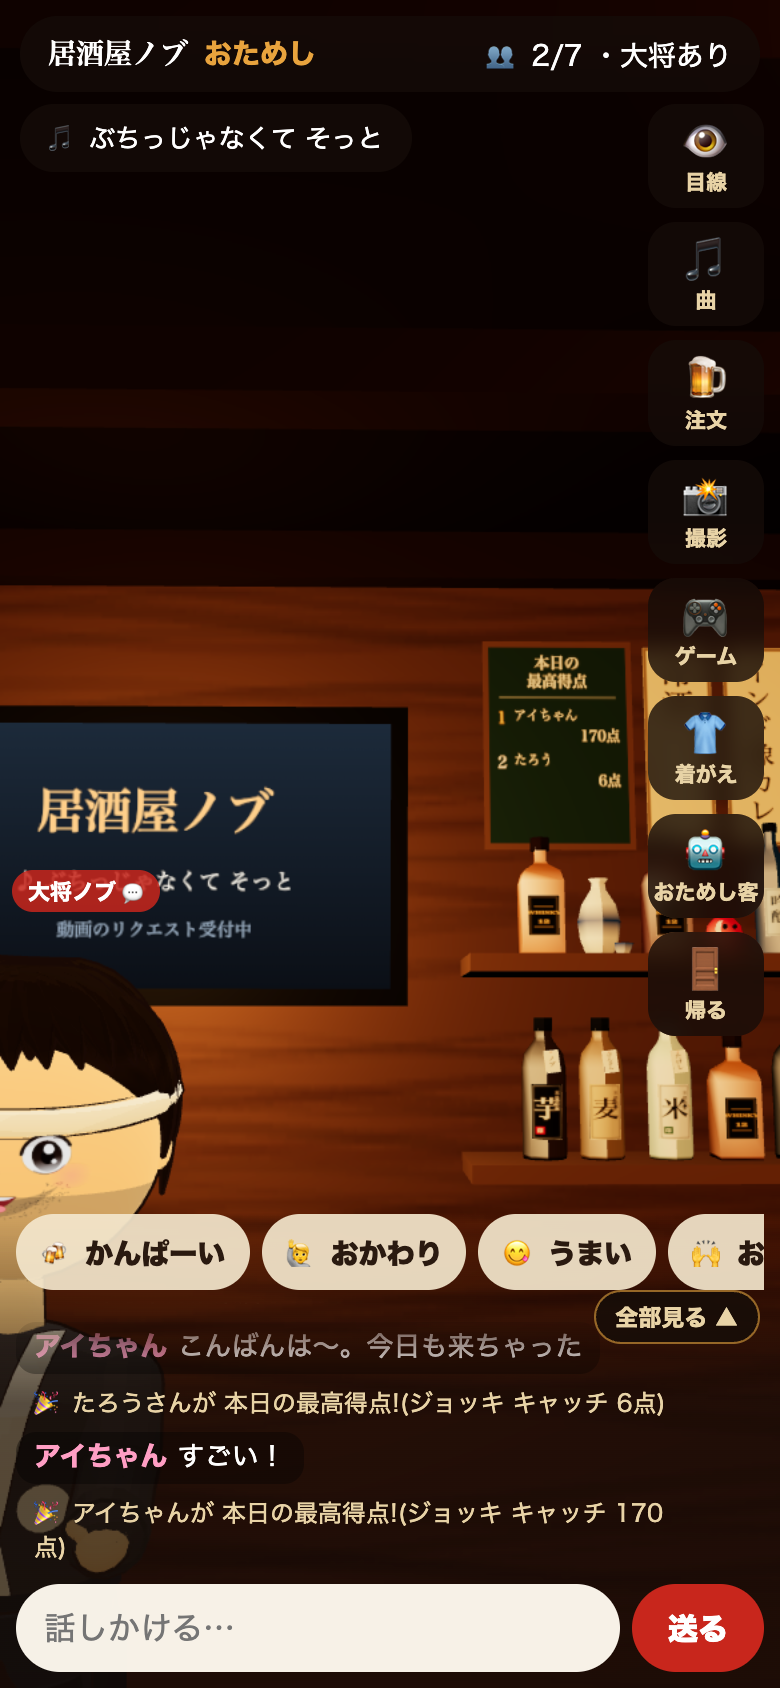
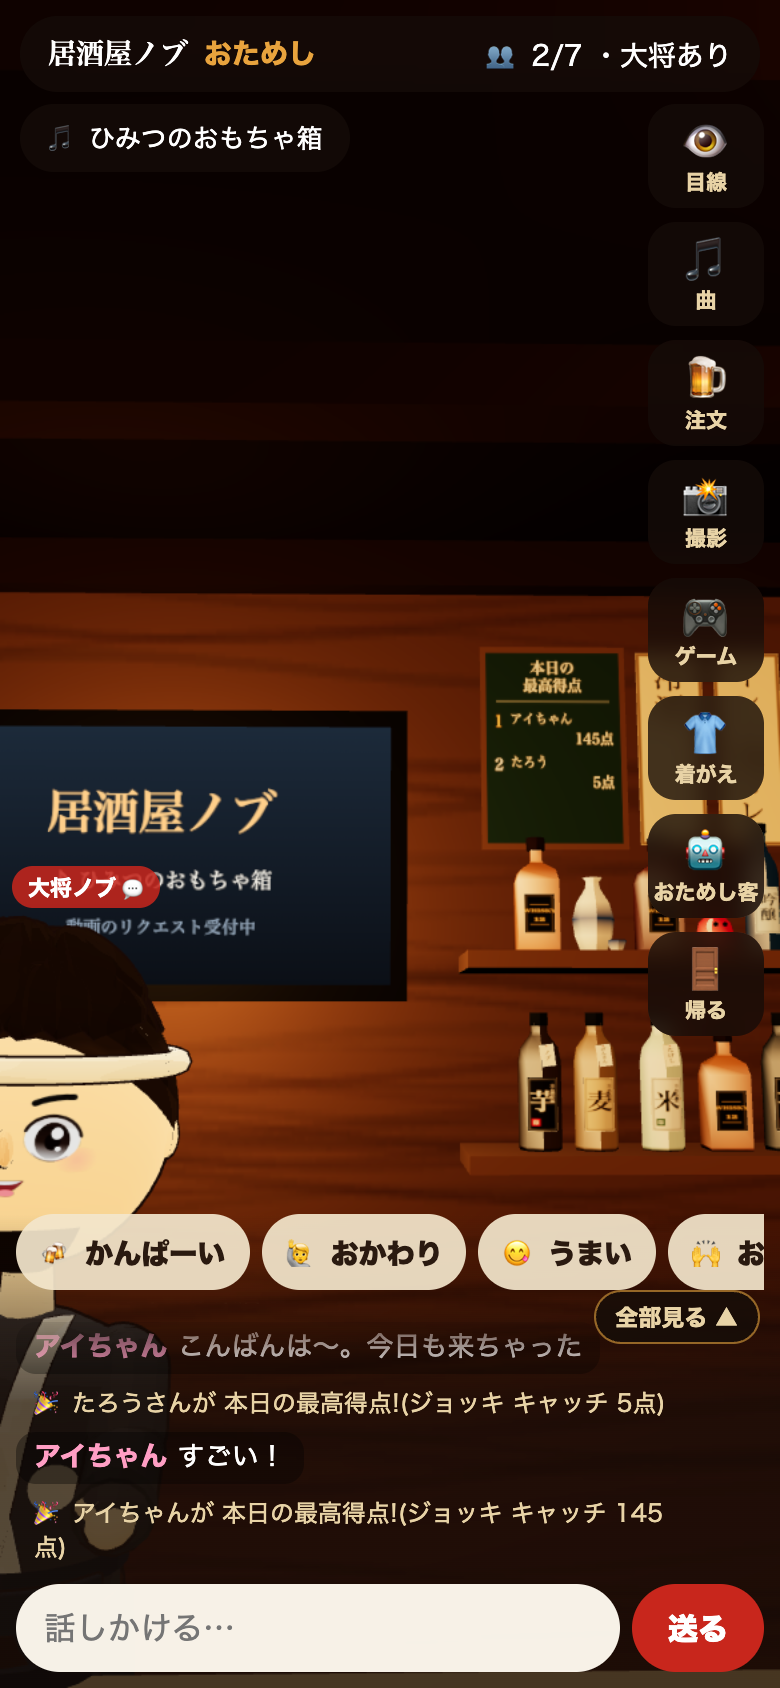
大将ノブの顔・髪型を決定(9番+太いまゆ+あごひげ)。ノブさん本人が大将のときだけ。はちまきは少し上に

diff --git a/js/app.js b/js/app.js
@@ -752,6 +752,8 @@
   };
 
   /* ---------------- 店に入る・出る ---------------- */
+  /* 大将ノブ(ノブさん本人)のときだけ、顔と髪型を NOBU_FACE に固定する(服・頭の手ぬぐい等は選んだまま。小物なし)。バトンタッチ・マスターの人には付けない */
+  function nobuLook(av) { if (!av || ROLE !== 'nobu' || av.sex !== 'm' || !SHOP.NOBU_FACE) return av; var o = JSON.parse(JSON.stringify(av)); o.special = 'nobu'; o.acc = 'none'; return o; }
   var hbTimer = null;
   function enter(name) {
     inside = true; seenMine = false; mySeat = -1; joinAt = now();
@@ -760,7 +762,7 @@
     Object.keys(tree.events || {}).forEach(function (k) { seenEvt[k] = 1; });
     net.set('members/' + ME.uid, { name: name, avatar: myAvatar(), owner: OWNER_MODE, at: TS, seen: TS, voice: myAvatar().voice || '' });
     if (OWNER_MODE) {
-      net.update('state', { ownerAvatar: ownerAvatar, ownerName: name, ownerRole: ROLE });
+      net.update('state', { ownerAvatar: nobuLook(ownerAvatar), ownerName: name, ownerRole: ROLE });
       if (TAKE_OK) { net.update('state', { baton: null }); TAKE = ''; try { history.replaceState(null, '', location.pathname + location.search + location.hash.replace(/[#&]take=[\w-]+/, '').replace(/&nm=[^&]*/, '')); } catch (e) {} }
       else sys(ROLE === 'master' ? '🏮 今回のマスター ' + honor(name) + 'が店に立ちました' : '🏮 ' + (/^大将/.test(name) ? '' : '大将の') + name + 'が店に立ちました');
     }
@@ -1980,7 +1982,7 @@
     setTimeout(function () {
       enter('見学の人');
       net.set('members/demo-owner', { name: SHOP.OWNER_NAME, owner: true, at: TS, seen: TS, voice: '' });
-      net.update('state', { ownerAvatar: AVATAR.OWNER, ownerName: SHOP.OWNER_NAME, ownerRole: 'nobu', autoServe: 'mix' });
+      net.update('state', { ownerAvatar: Object.assign({}, AVATAR.OWNER, SHOP.NOBU_FACE ? { special: 'nobu' } : {}), ownerName: SHOP.OWNER_NAME, ownerRole: 'nobu', autoServe: 'mix' });
       [0, 900, 1800, 2700].forEach(function (t) { setTimeout(addBot, 600 + t); });
       setTimeout(demoVideo, 1500);
       setTimeout(function () {   // はじめから 4人の前に 飲み物と料理(開いてすぐ にぎやかに)
@@ -2777,7 +2779,7 @@
   $('mkBack').onclick = function () { pendingEnter = false; closeMaker(); };
   $('mkSave').onclick = function () {
     if (!draft) return;
-    if (OWNER_MODE) { draft.owner = true; ownerAvatar = AVATAR.fix(draft); lsSet('iz-owner-avatar', ownerAvatar); if (inside) net.update('state', { ownerAvatar: ownerAvatar }); }
+    if (OWNER_MODE) { draft.owner = true; ownerAvatar = AVATAR.fix(draft); lsSet('iz-owner-avatar', ownerAvatar); if (inside) net.update('state', { ownerAvatar: nobuLook(ownerAvatar) }); }
     else { draft.owner = false; ME.avatar = AVATAR.fix(draft); saveMe(); }
     if (inside) net.update('members/' + ME.uid, { avatar: myAvatar(), voice: myAvatar().voice });
     drawFace2D($('meFace'), myAvatar());

diff --git a/js/scene3d.js b/js/scene3d.js
@@ -1387,11 +1387,11 @@ function buildAcc(head, body, a, R, f) {
   if (a.owner) {
     const Rh = f ? R * 1.2 : R;   // 女性は髪がふくらんでいるので、頭の飾りを ひとまわり大きく(髪にうもれないように)
     switch (a.head) {
-      case 'hachimaki': case 'nejiri': { const Rb = f ? R * 0.98 : R;
-        const band = tm(new THREE.TorusGeometry(Rb * 1.03, a.head === 'nejiri' ? 0.02 : 0.016, 8, 36), '#f6f4ee', 0, Rb * 0.3, 0, 0.003); band.rotation.x = Math.PI / 2 + 0.15; head.add(band);
-        if (a.head === 'nejiri') for (let k = 0; k < 24; k++) { const ang = k / 24 * Math.PI * 2; head.add(tm(new THREE.BoxGeometry(0.006, 0.03, 0.01), '#2a3a6a', Math.sin(ang) * Rb * 1.04, Rb * 0.3 + Math.cos(ang) * Rb * 0.15 * 0.98, Math.cos(ang) * Rb * 1.04)); }
-        const knot = tm(new THREE.SphereGeometry(0.025, 8, 6), '#f6f4ee', 0, Rb * 0.25, -Rb * 1.02, 0.003); head.add(knot);
-        [-1, 1].forEach((s) => { const tl = tm(new THREE.BoxGeometry(0.03, 0.09, 0.006), '#f6f4ee', s * 0.03, Rb * 0.12, -Rb * 1.04); tl.rotation.z = s * 0.4; head.add(tl); });
+      case 'hachimaki': case 'nejiri': { const Rb = f ? R * 0.98 : R, up = a.special === 'nobu' ? 0.14 : 0, tlt = a.special === 'nobu' ? 0.04 : 0.15;   // 大将ノブ: おでこを出した髪なので 少し上に巻く(まゆを隠さない)
+        const band = tm(new THREE.TorusGeometry(Rb * (1.03 + up * 0.1), a.head === 'nejiri' ? 0.02 : 0.016, 8, 36), '#f6f4ee', 0, Rb * (0.3 + up), 0, 0.003); band.rotation.x = Math.PI / 2 + tlt; head.add(band);
+        if (a.head === 'nejiri') for (let k = 0; k < 24; k++) { const ang = k / 24 * Math.PI * 2; head.add(tm(new THREE.BoxGeometry(0.006, 0.03, 0.01), '#2a3a6a', Math.sin(ang) * Rb * 1.04, Rb * (0.3 + up) + Math.cos(ang) * Rb * tlt * 0.98, Math.cos(ang) * Rb * 1.04)); }
+        const knot = tm(new THREE.SphereGeometry(0.025, 8, 6), '#f6f4ee', 0, Rb * (0.25 + up), -Rb * 1.02, 0.003); head.add(knot);
+        [-1, 1].forEach((s) => { const tl = tm(new THREE.BoxGeometry(0.03, 0.09, 0.006), '#f6f4ee', s * 0.03, Rb * (0.12 + up), -Rb * 1.04); tl.rotation.z = s * 0.4; head.add(tl); });
         break; }
       case 'tenugui': { const c = tm(new THREE.SphereGeometry(Rh * 1.1, 26, 14, 0, Math.PI * 2, 0, 1.2), '#2a3a6a', 0, 0, 0, 0.003); c.rotation.x = -0.25; head.add(c); regHat(head, c, { kind: 'dome', r: Rh * 1.1, sy: 1, th: 1.2 });
         for (let k = 0; k < 10; k++) head.add(tm(new THREE.SphereGeometry(0.01, 6, 5), '#f6f4ee', Math.sin(k * 1.9) * Rh * 0.6, Rh * 0.8 + Math.cos(k * 2.3) * Rh * 0.1, Math.cos(k * 1.9) * Rh * 0.5));

diff --git a/js/config.js b/js/config.js
@@ -290,6 +290,8 @@ var SHOP = {
 
   /* ノブさんの声を録音してある言葉の id(大将の声「ノブの声(録音)」で使う)。録音ページ rec.html で録って、voice/nobu/ に置く。
      ここにない言葉は、代わりの声(落ち着いた男性)で読む */
+  /* 大将ノブの顔・髪型(ノブさんが 11-21 に選んだ: 9番 + まゆ・ひげを組み合わせ)。ノブさん本人が大将のときだけ。お客さんは選べない */
+  NOBU_FACE: { hair: 'n5', brow: 'k3', eye: 'e2', nose: 2, beard: 'b1', face: 'square', skin: 2 },
   NOBU_VOICE: ['irasshai', 'o_okaeri', 'o_nani', 'haiyo', 'omachi', 'o_service', 'o_shosho', 'o_atsui', 'o_kanpai', 'o_iine', 'o_moriagari', 'o_omedeto', 'o_okawari', 'o_arigato', 'o_maido', 'o_goyukkuri', 'lastcall', 'mataokoshi', 'o_kiwotsukete', 'oyasumi', 'o_photo', 'o_cheese']
 };
 SHOP.GUEST_PHRASES.forEach(function (p) { p.who = 'guest'; });

diff --git a/sw.js b/sw.js
@@ -1,7 +1,7 @@
 'use strict';
 /* ホーム画面に入れたあと、すぐ開けるようにする(お店の中身は毎回ネットで最新を取りにいく)。
    FILES(覚えるファイル)を変えたときだけ VERSION を 1つ上げる。 */
-const VERSION = 'izakaya-v55';
+const VERSION = 'izakaya-v56';
 const FILES = ['./', 'index.html', 'install.js', 'manifest.webmanifest', 'icon-192.png', 'icon-512.png', 'maskable-512.png', 'apple-touch-icon.png',
   'css/style.css', 'js/config.js', 'js/avatar-data.js', 'js/net.js', 'js/scene3d.js', 'js/game.js', 'js/app.js',
   'vendor/three/build/three.module.js', 'vendor/three/build/three.core.js', 'owner.html', 'owner/', 'owner/index.html', 'owner/rec.html', 'owner/manifest.webmanifest', 'owner/icon-192.png', 'owner/apple-touch-icon.png', 'shots/1.jpg', 'shots/2.jpg', 'shots/3.jpg'];
